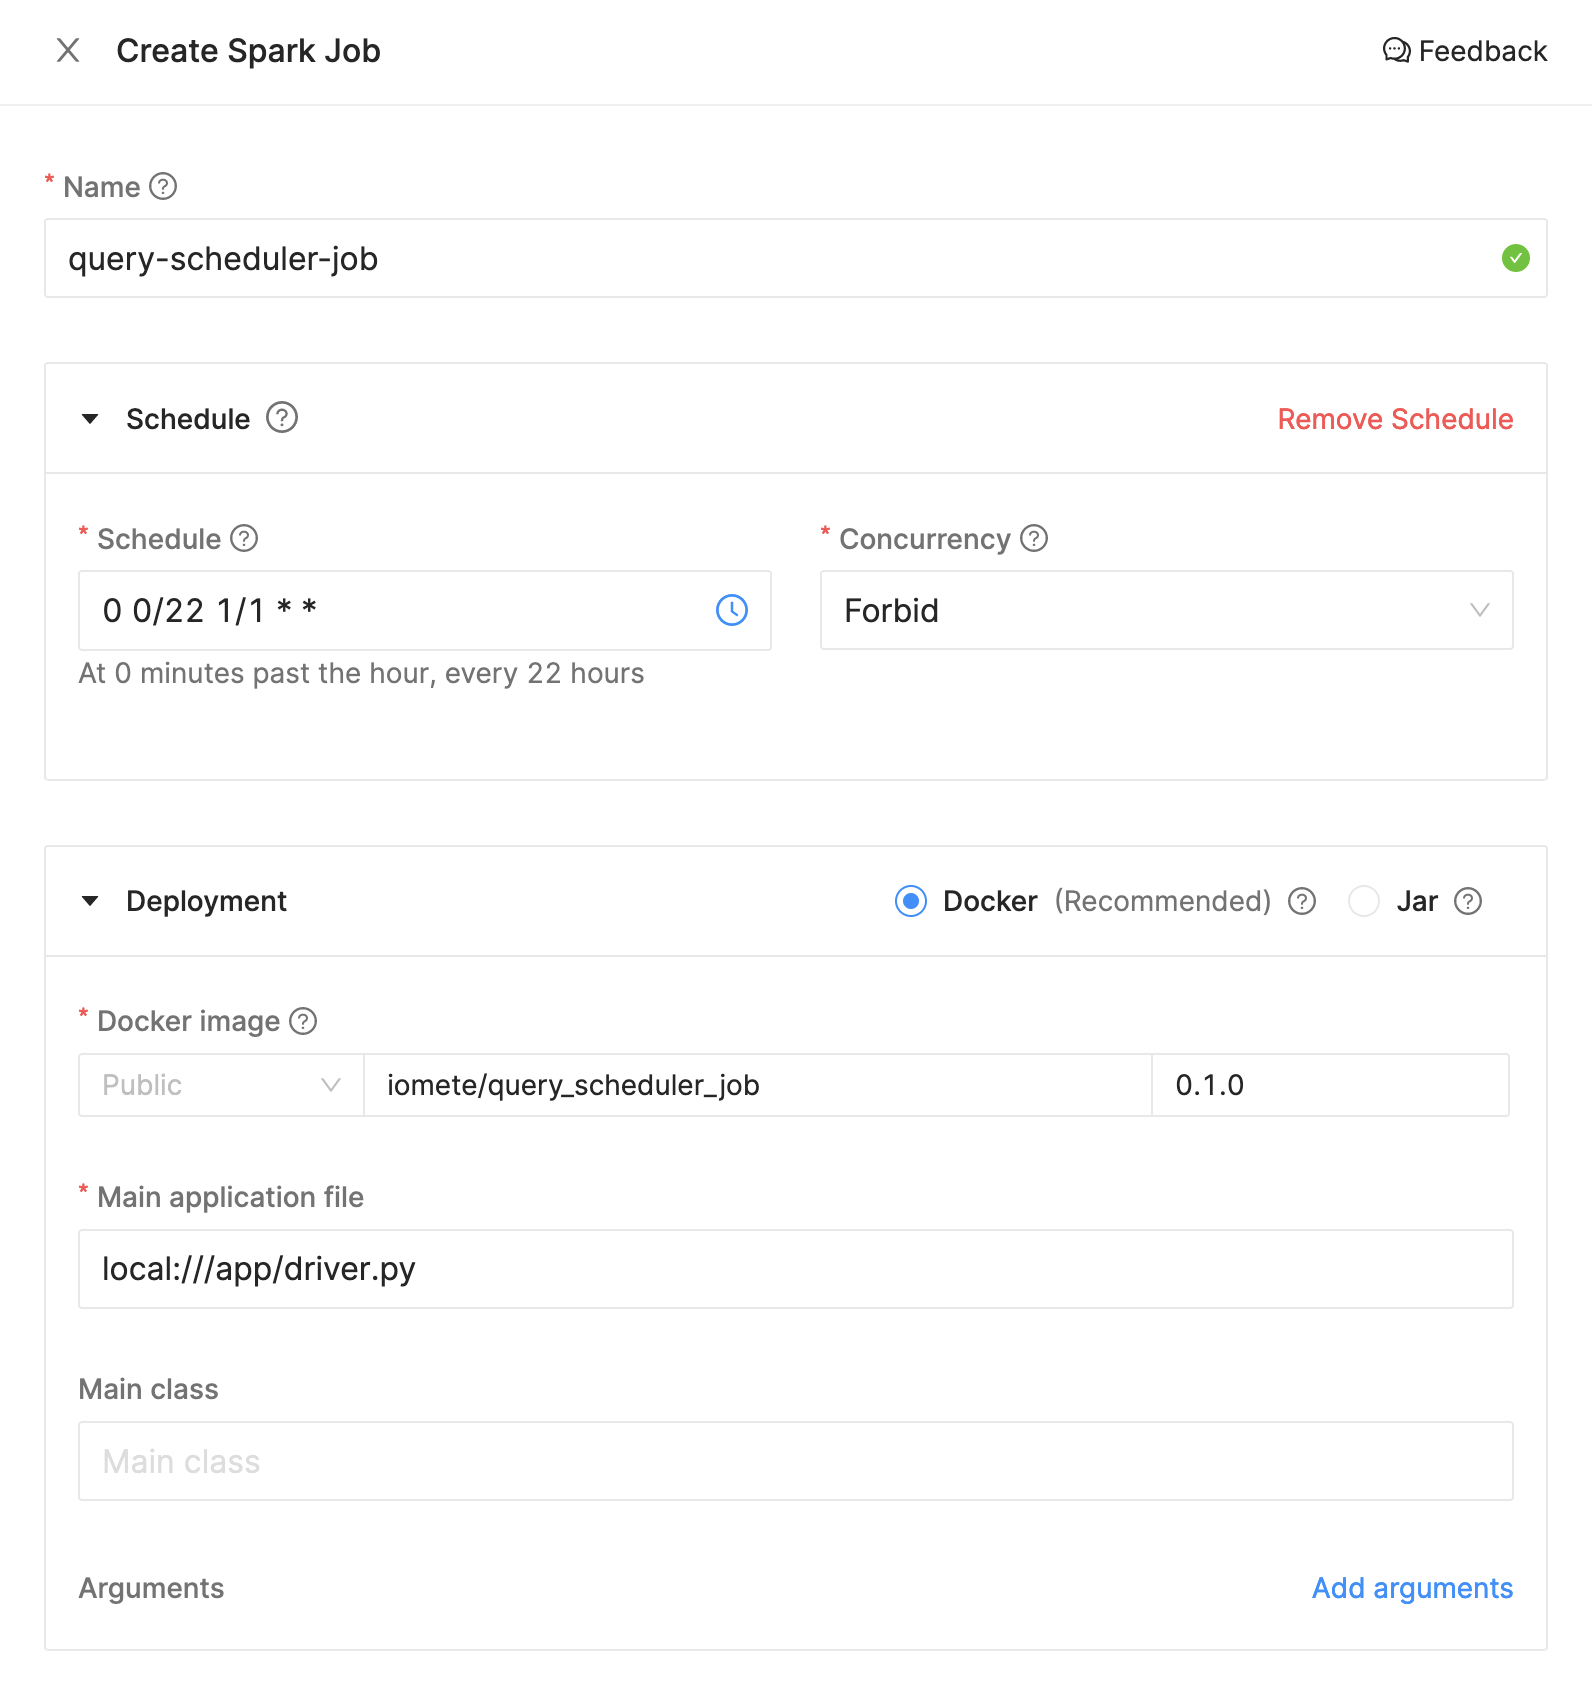
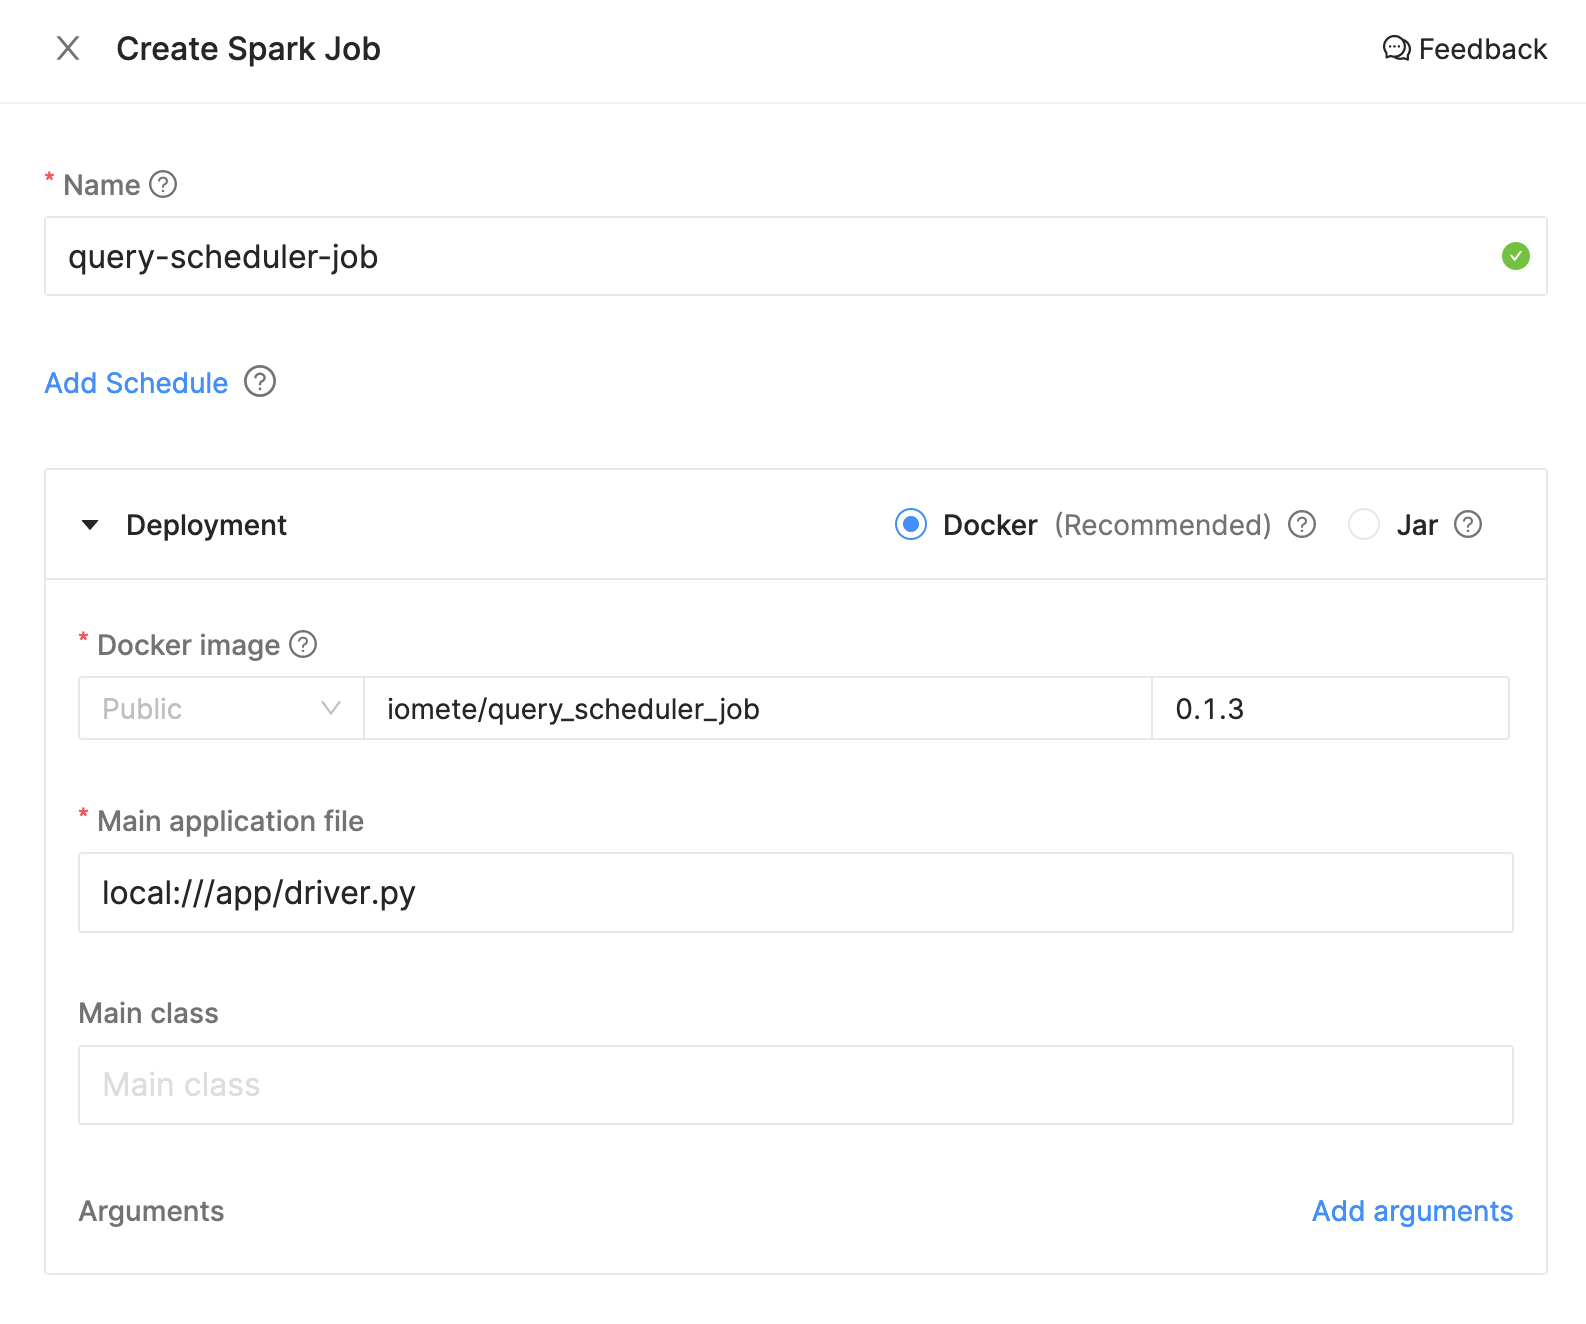
Release 0.1.3: spark-py version upgraded to 3.2.1.1. readme.md file updated

diff --git a/query_scheduler_job/main.py b/query_scheduler_job/main.py
@@ -15,7 +15,7 @@ def run_query(spark, query):
 
 
 def start_job(spark: SparkSession, queries):
-    logger.info("Query Scheduler Job: 0.1.0")
+    logger.info("Query Scheduler Job: 0.1.3")
 
     for query in queries:
         run_query(spark, query)

diff --git a/query_scheduler_job/__init__.py b/query_scheduler_job/__init__.py
@@ -2,4 +2,4 @@
 
 __author__ = """Farhad M."""
 __email__ = 'farhad@iomete.com'
-__version__ = '0.1.0'
+__version__ = '0.1.3'

diff --git a/readme.md b/readme.md
@@ -9,7 +9,7 @@
 Specify the following parameters (these are examples, you can change them based on your preference):
 - **Name:** `query-scheduler-job`
 - **Schedule:** `0 0/22 1/1 * *`
-- **Docker Image:** `iomete/query_scheduler_job:0.1.0`
+- **Docker Image:** `iomete/query_scheduler_job:0.1.3`
 - **Main application file:** `local:///app/driver.py`
 - **Config file:** 
 ```hocon
